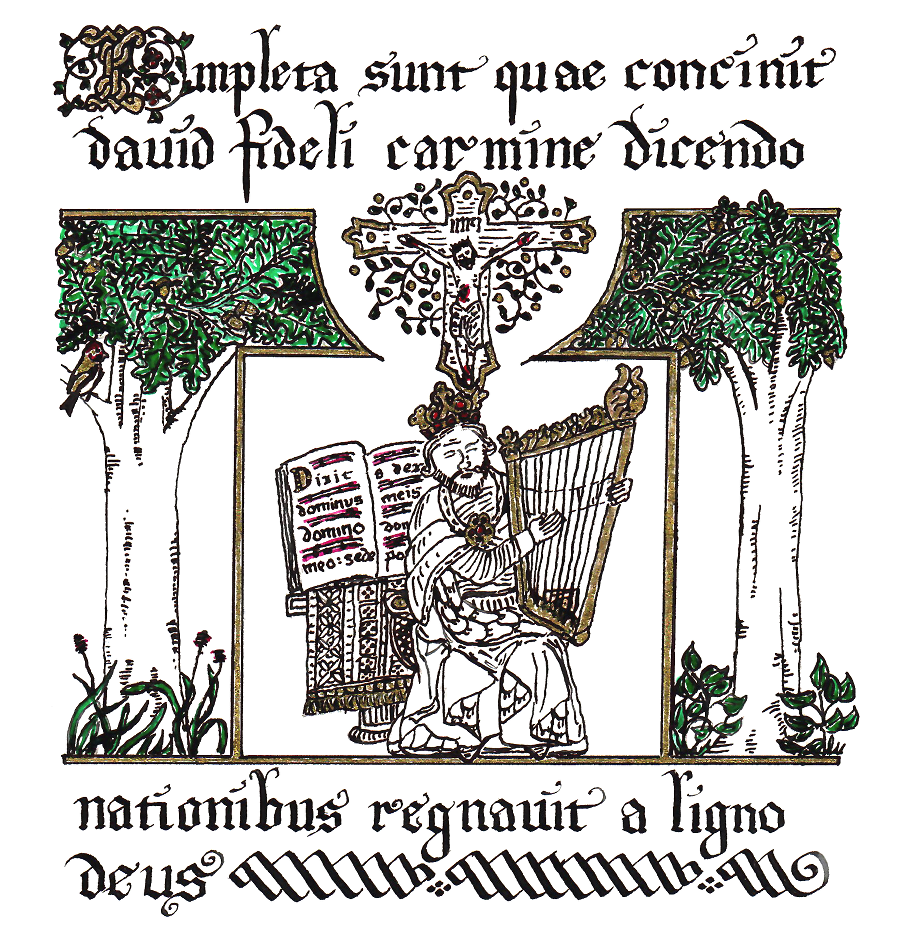
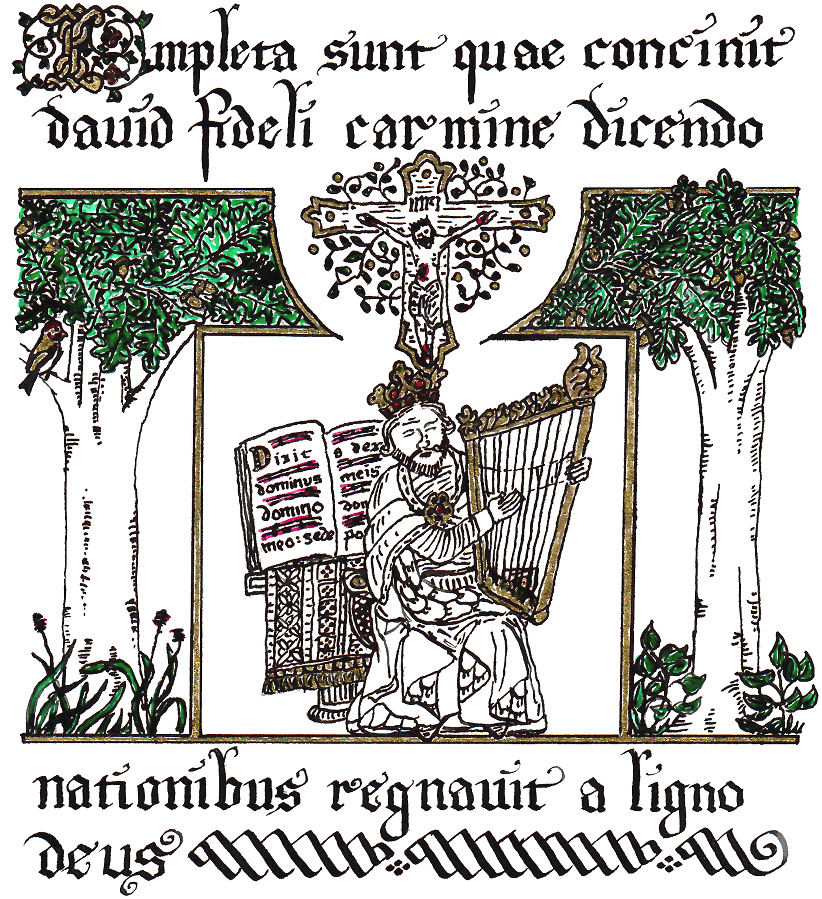
Improved cover pages.

diff --git a/sunday_vespers.tex b/sunday_vespers.tex
@@ -29,23 +29,27 @@ VESPERALE
 
 }
 
-\vspace*{20 pt}
+\vspace*{15 pt}
 
 {\fontsize{1.5cm}{1 em}\selectfont
 
+DOMINICALE
+
+\vspace*{3.2 mm}
+
 JUXTA RITUM
 
-\vspace*{2.7 mm}
+\vspace*{1.2 mm}
 
 ROMANUM
 
-\vspace*{5 mm}
+\vspace*{3.0 mm}
 
 ANTIQUIOREM
 
 }
 
-\vspace*{5 mm}
+\vspace*{2 mm}
 
 \begin{Huge}
 
@@ -63,11 +67,11 @@ SIGNIS RHYTHMICIS ORNATUM
 
 \end{Huge}
 
-\vspace*{8 mm}
+\vspace*{2 mm}
 
-\includegraphics[height=7.20cm]{David2017s.png}
+\includegraphics[height=7.55cm]{David2017s.png}
 
-\vspace*{6 mm}
+\vspace*{3 mm}
 
 \begin{large}
 

diff --git a/vespers.tex b/vespers.tex
@@ -45,7 +45,7 @@ ANTIQUIOREM
 
 }
 
-\vspace*{5 mm}
+\vspace*{3 mm}
 
 \begin{Huge}
 
@@ -63,11 +63,11 @@ SIGNIS RHYTHMICIS ORNATUM
 
 \end{Huge}
 
-\vspace*{8 mm}
+\vspace*{3 mm}
 
-\includegraphics[height=7.20cm]{David2017s.png}
+\includegraphics[height=8.20cm]{David2017s.png}
 
-\vspace*{6 mm}
+\vspace*{3 mm}
 
 \begin{large}
 
